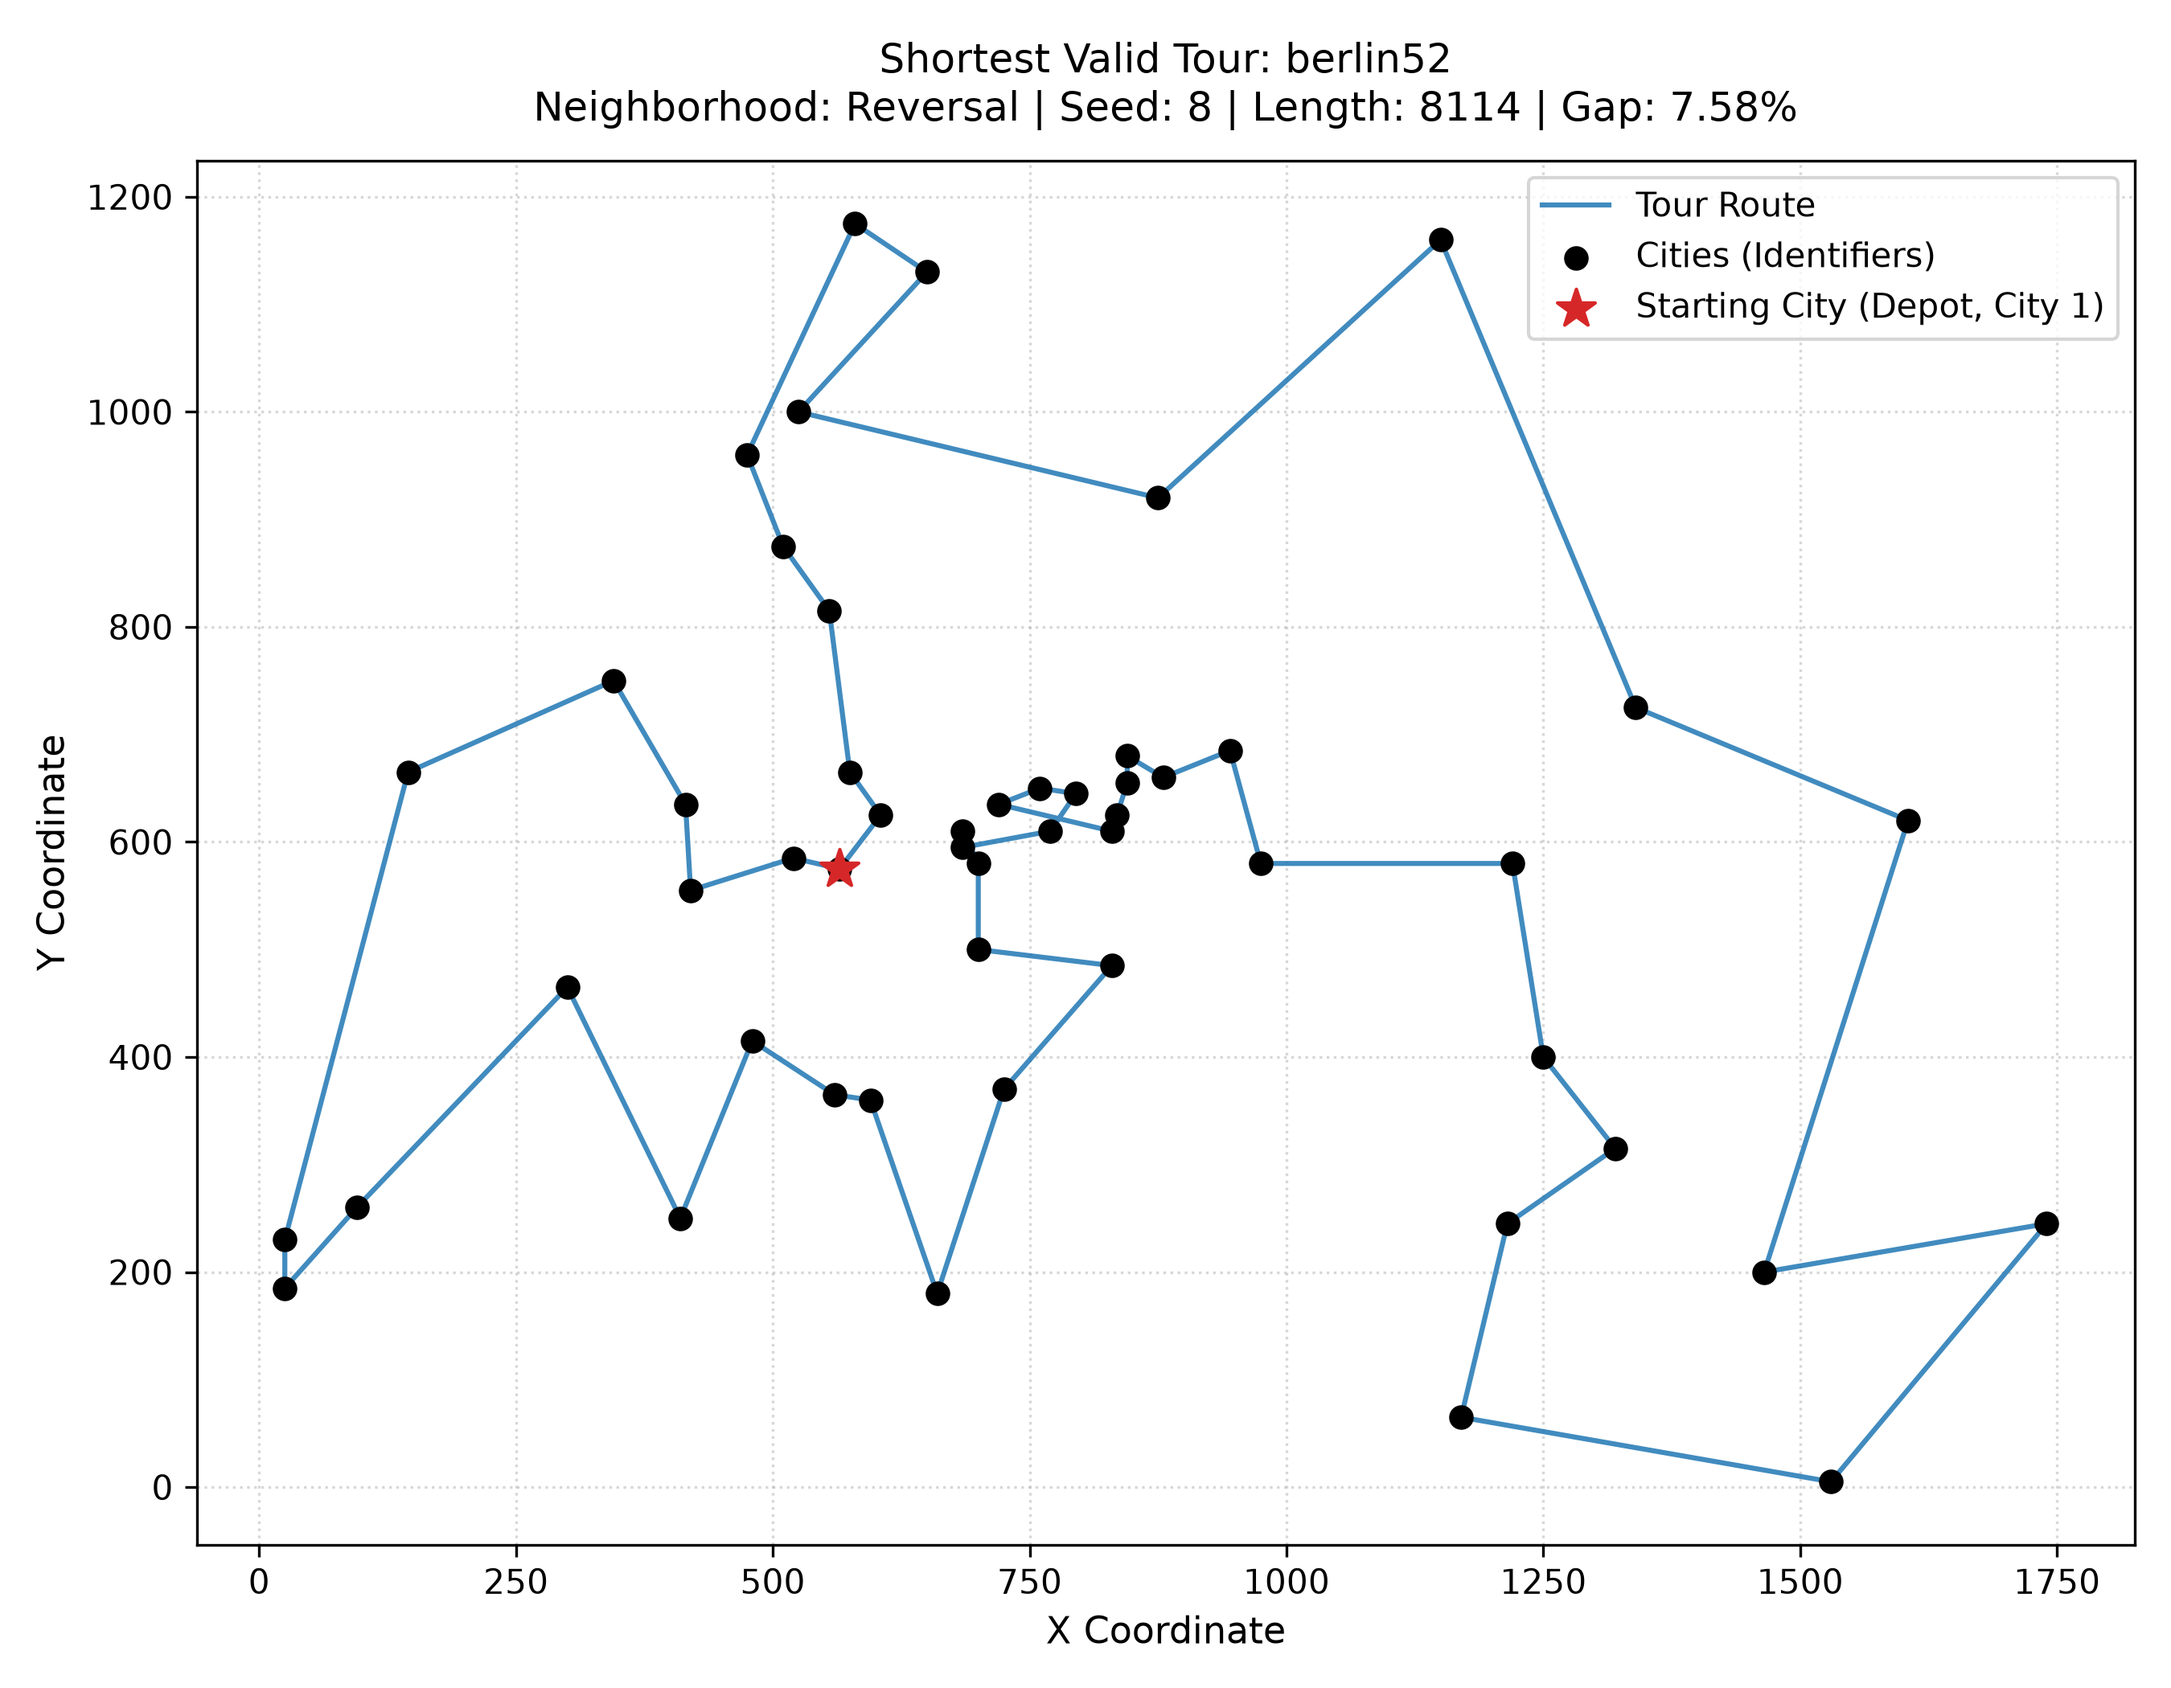
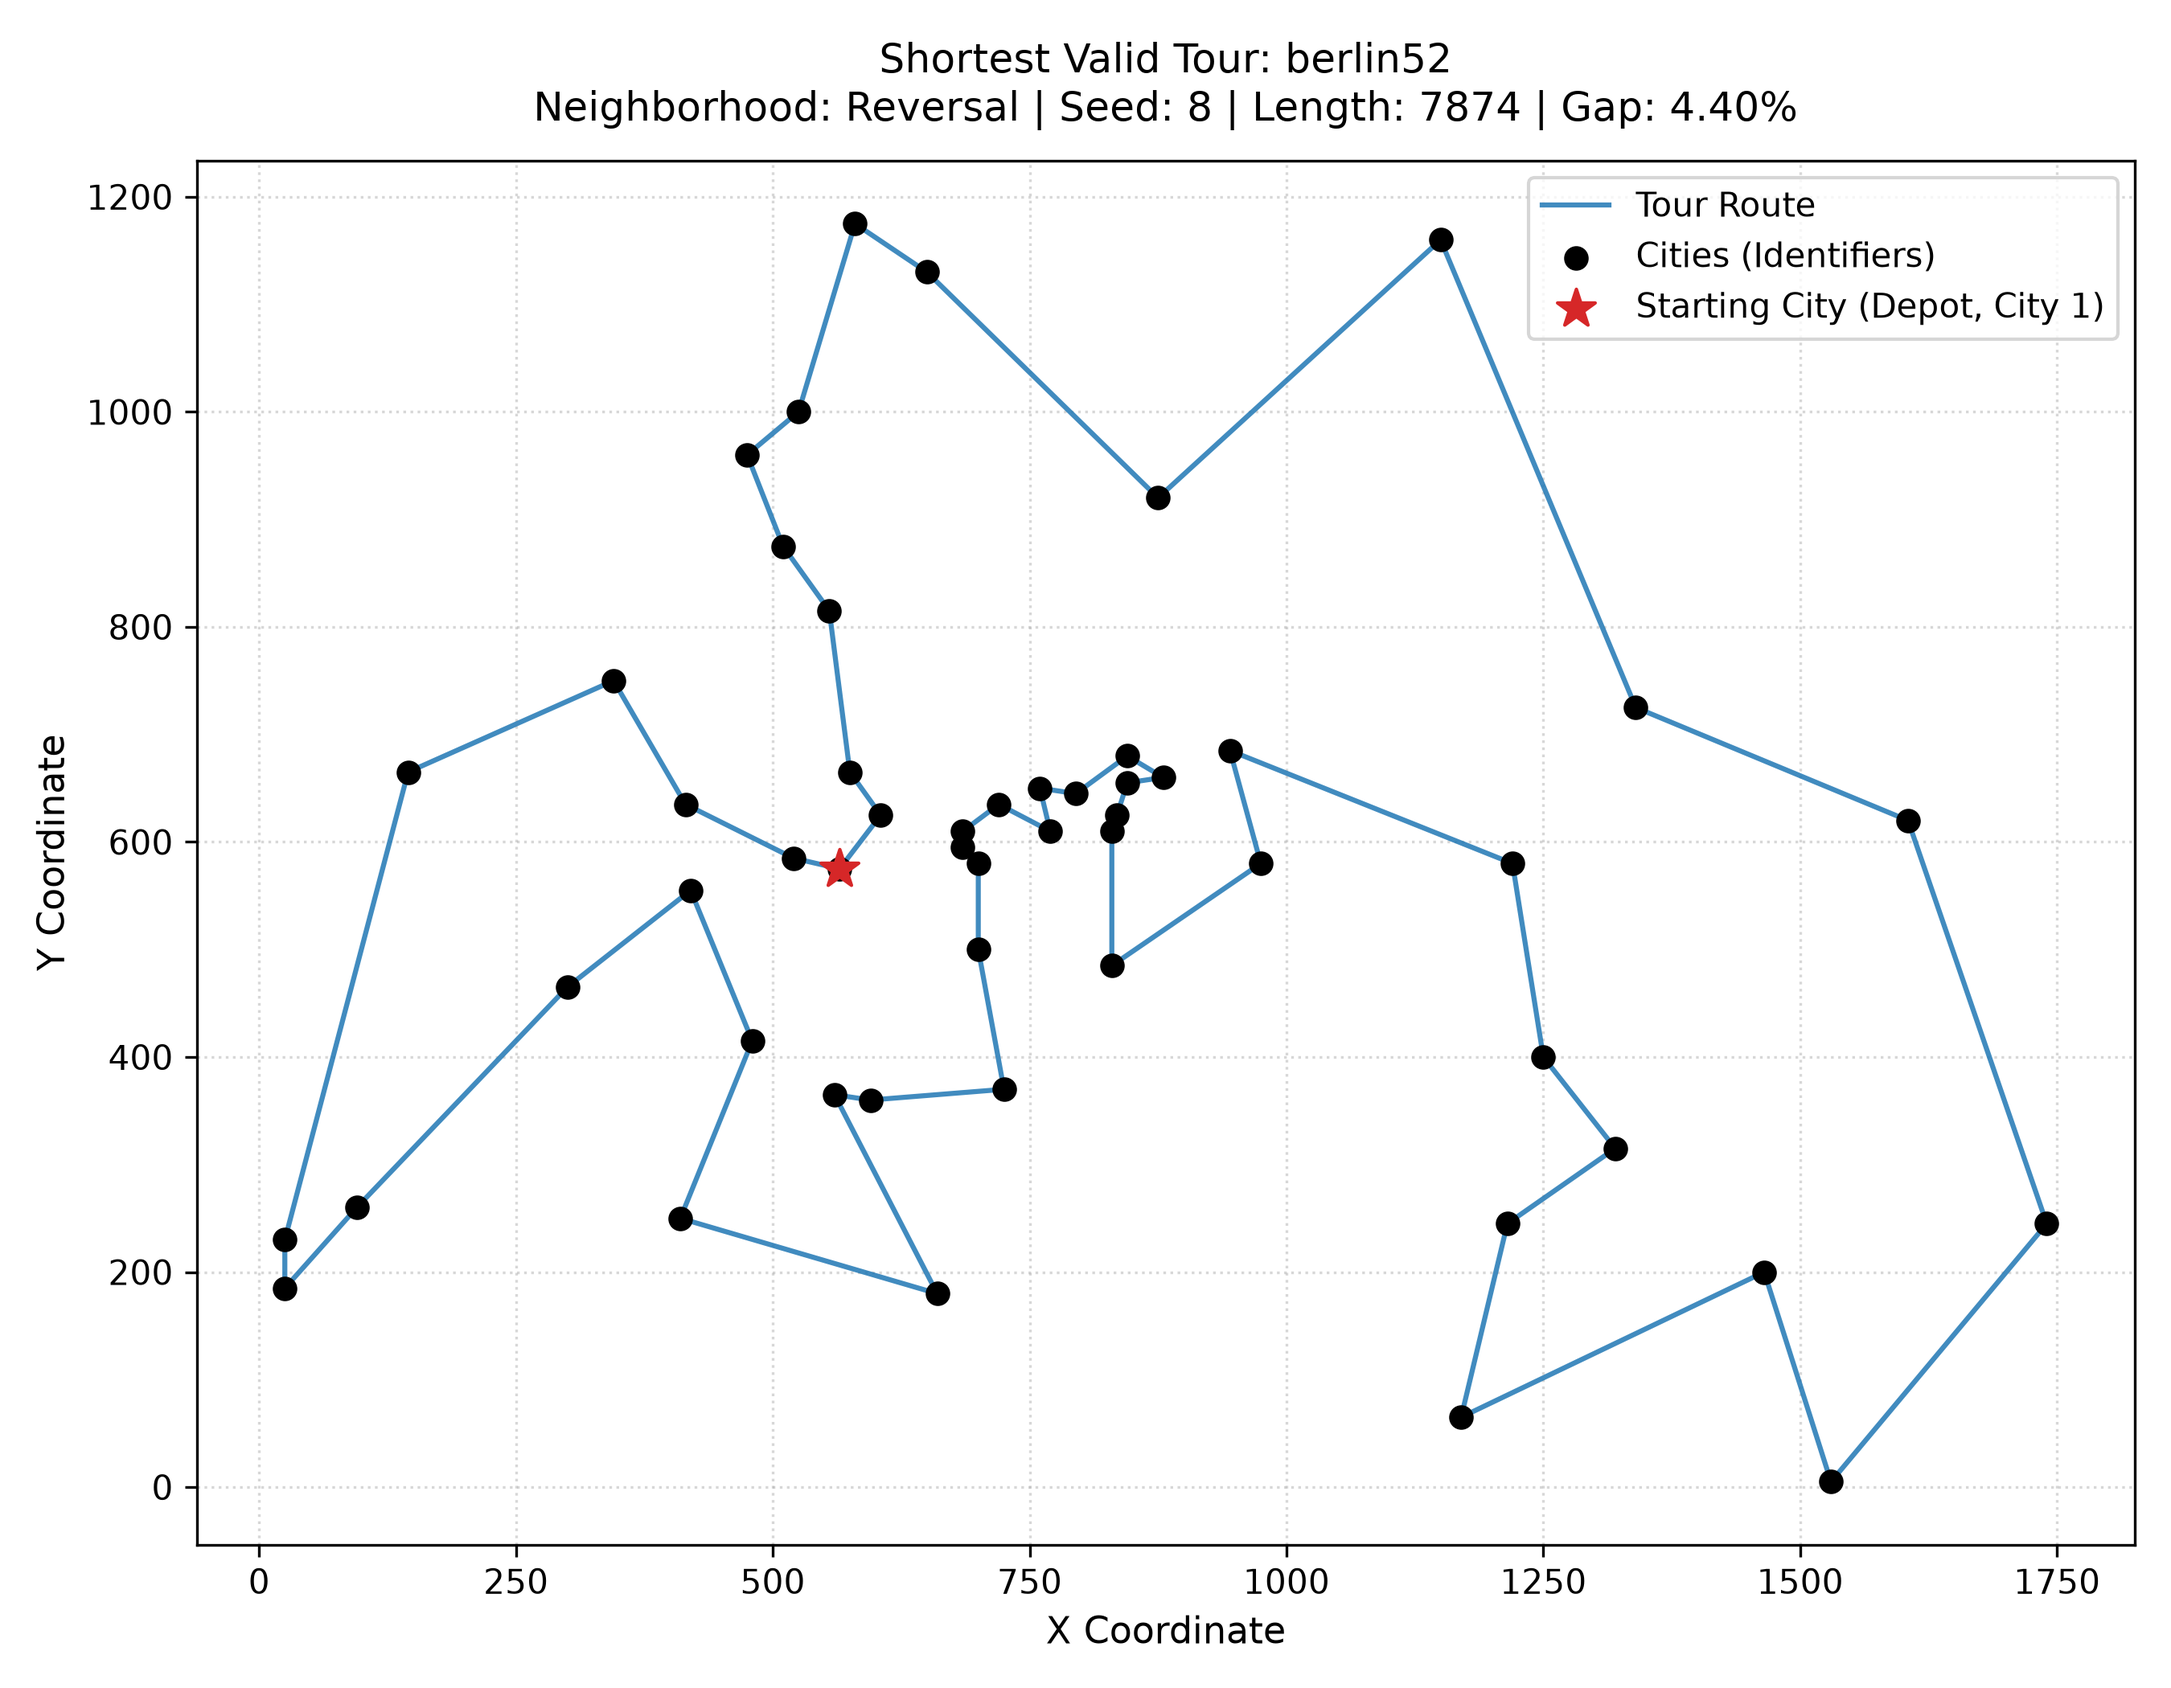
changed parameters and results

diff --git a/BA/Part_A/experiments.py b/BA/Part_A/experiments.py
@@ -14,11 +14,11 @@ class ExperimentConfig:
     def __init__(
         self,
         seeds: list[int] = None,
-        population_size: int = 40,
-        selected_sites: int = 10,
-        elite_sites: int = 3,
-        recruited_elite: int = 15,
-        recruited_selected: int = 5,
+        population_size: int = 20,
+        selected_sites: int = 6,
+        elite_sites: int = 2,
+        recruited_elite: int = 20,
+        recruited_selected: int = 8,
         max_evals: int = 30_000,
     ):
         self.seeds = seeds if seeds is not None else [1, 2, 4, 8, 16, 32, 64, 128, 256, 512]
@@ -79,6 +79,11 @@ def run_single_trial(
     )
 
     best_trip, best_length, history = ba.run()
+
+    # Assignment PDF Check: Validate that every returned tour contains every city once
+    assert len(best_trip) == len(dataset), "Tour length mismatch!"
+    assert len(set(best_trip)) == len(dataset), "Tour contains duplicate cities!"
+    assert best_trip[0] == 0, "City 1 is not the starting depot!"
 
     runtime = time.perf_counter() - start_time
 
